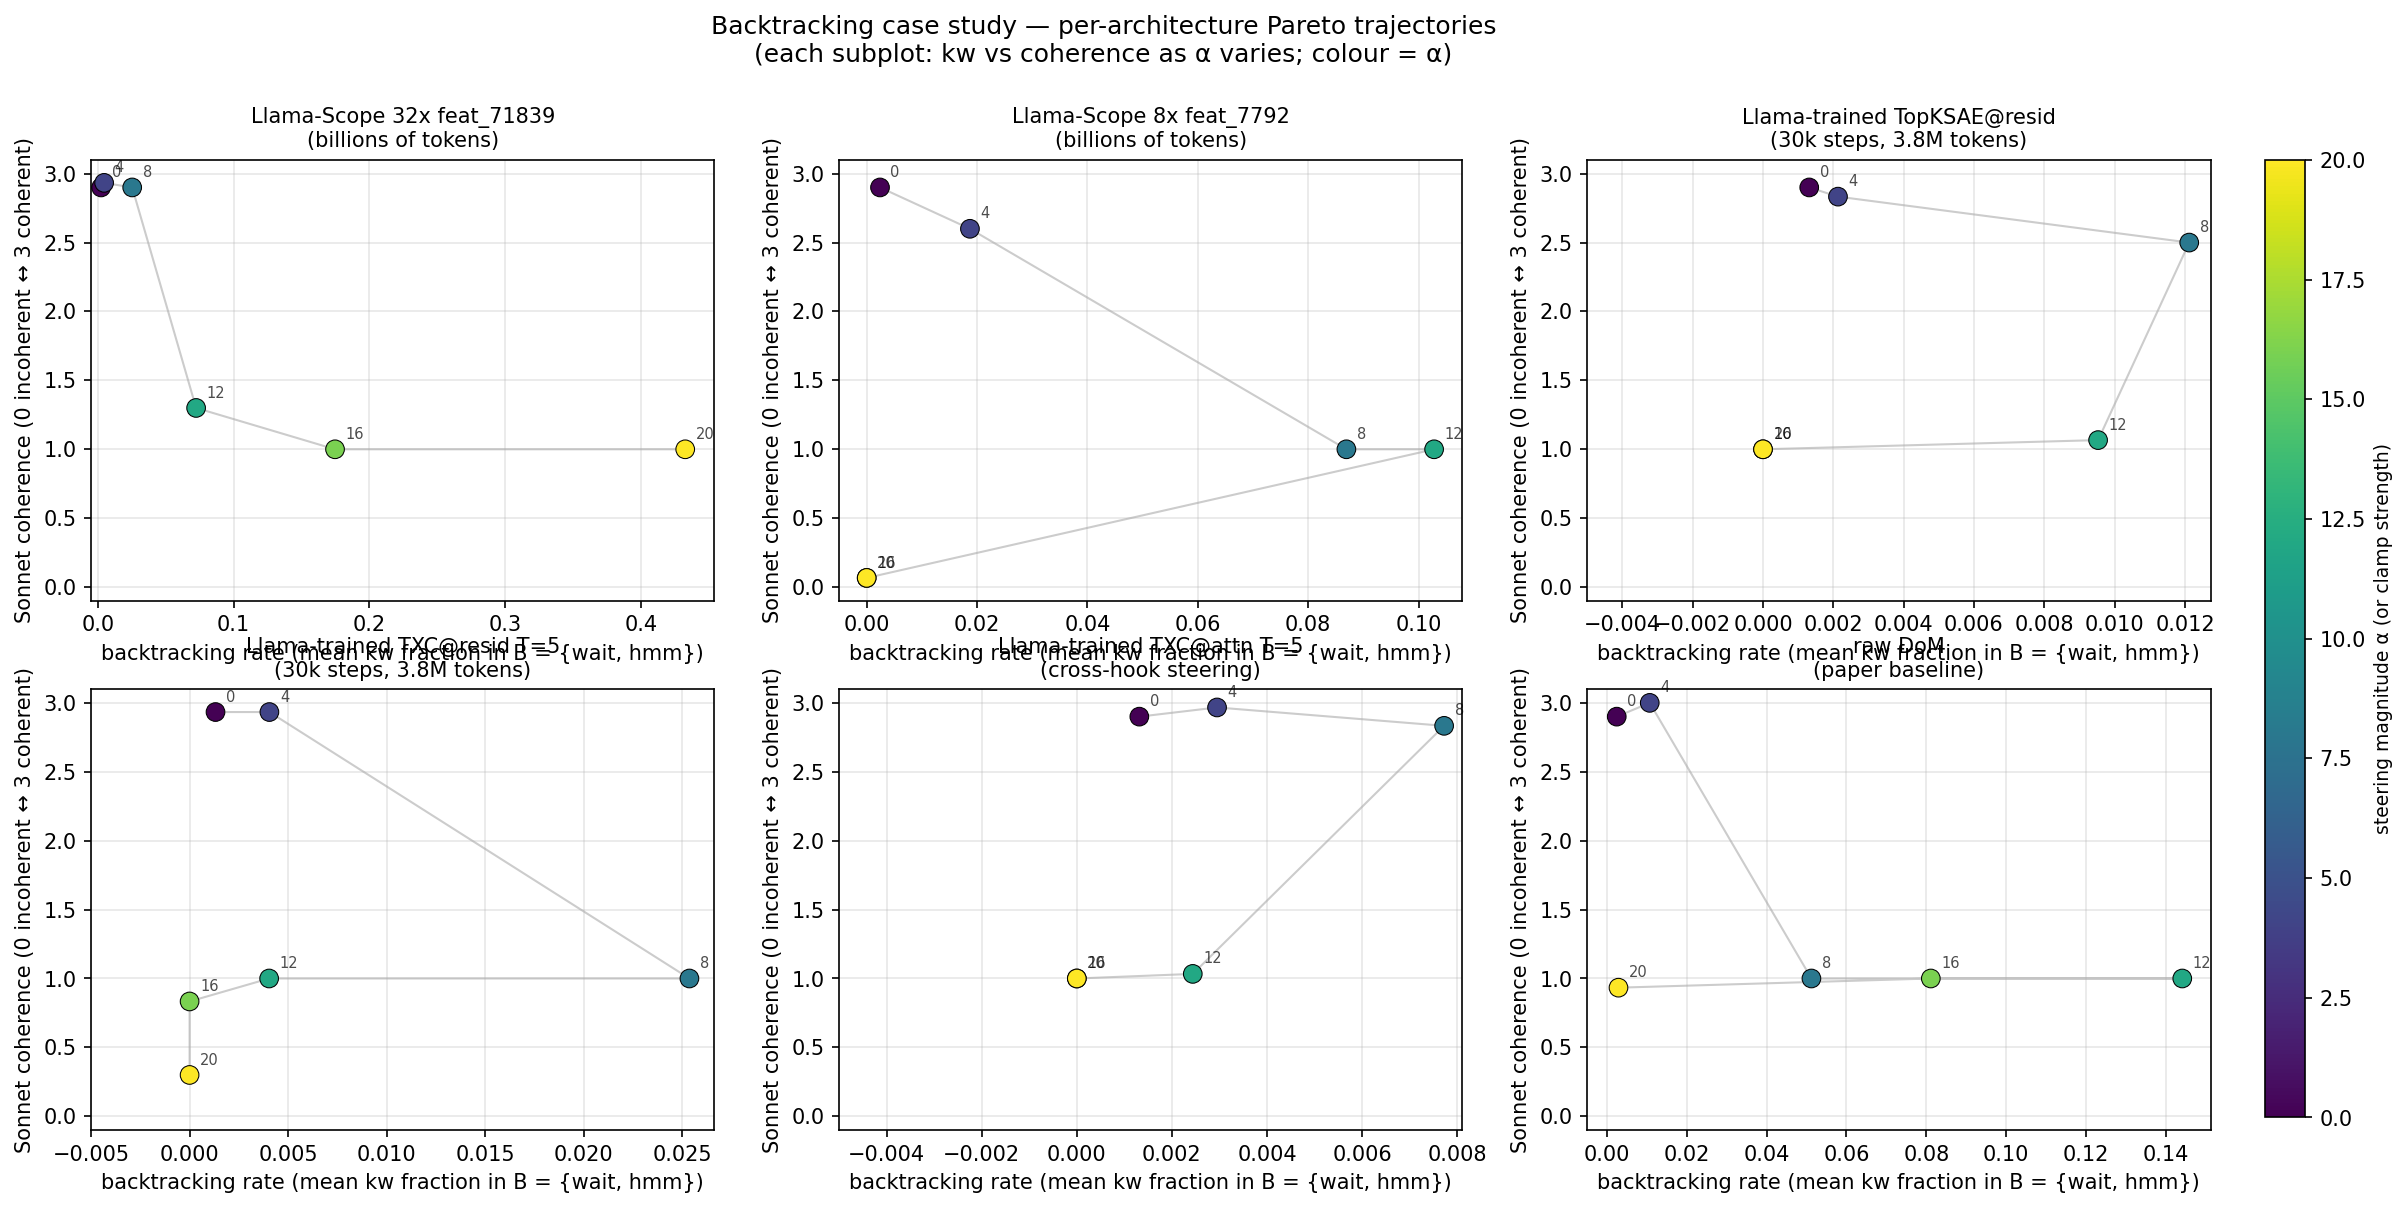
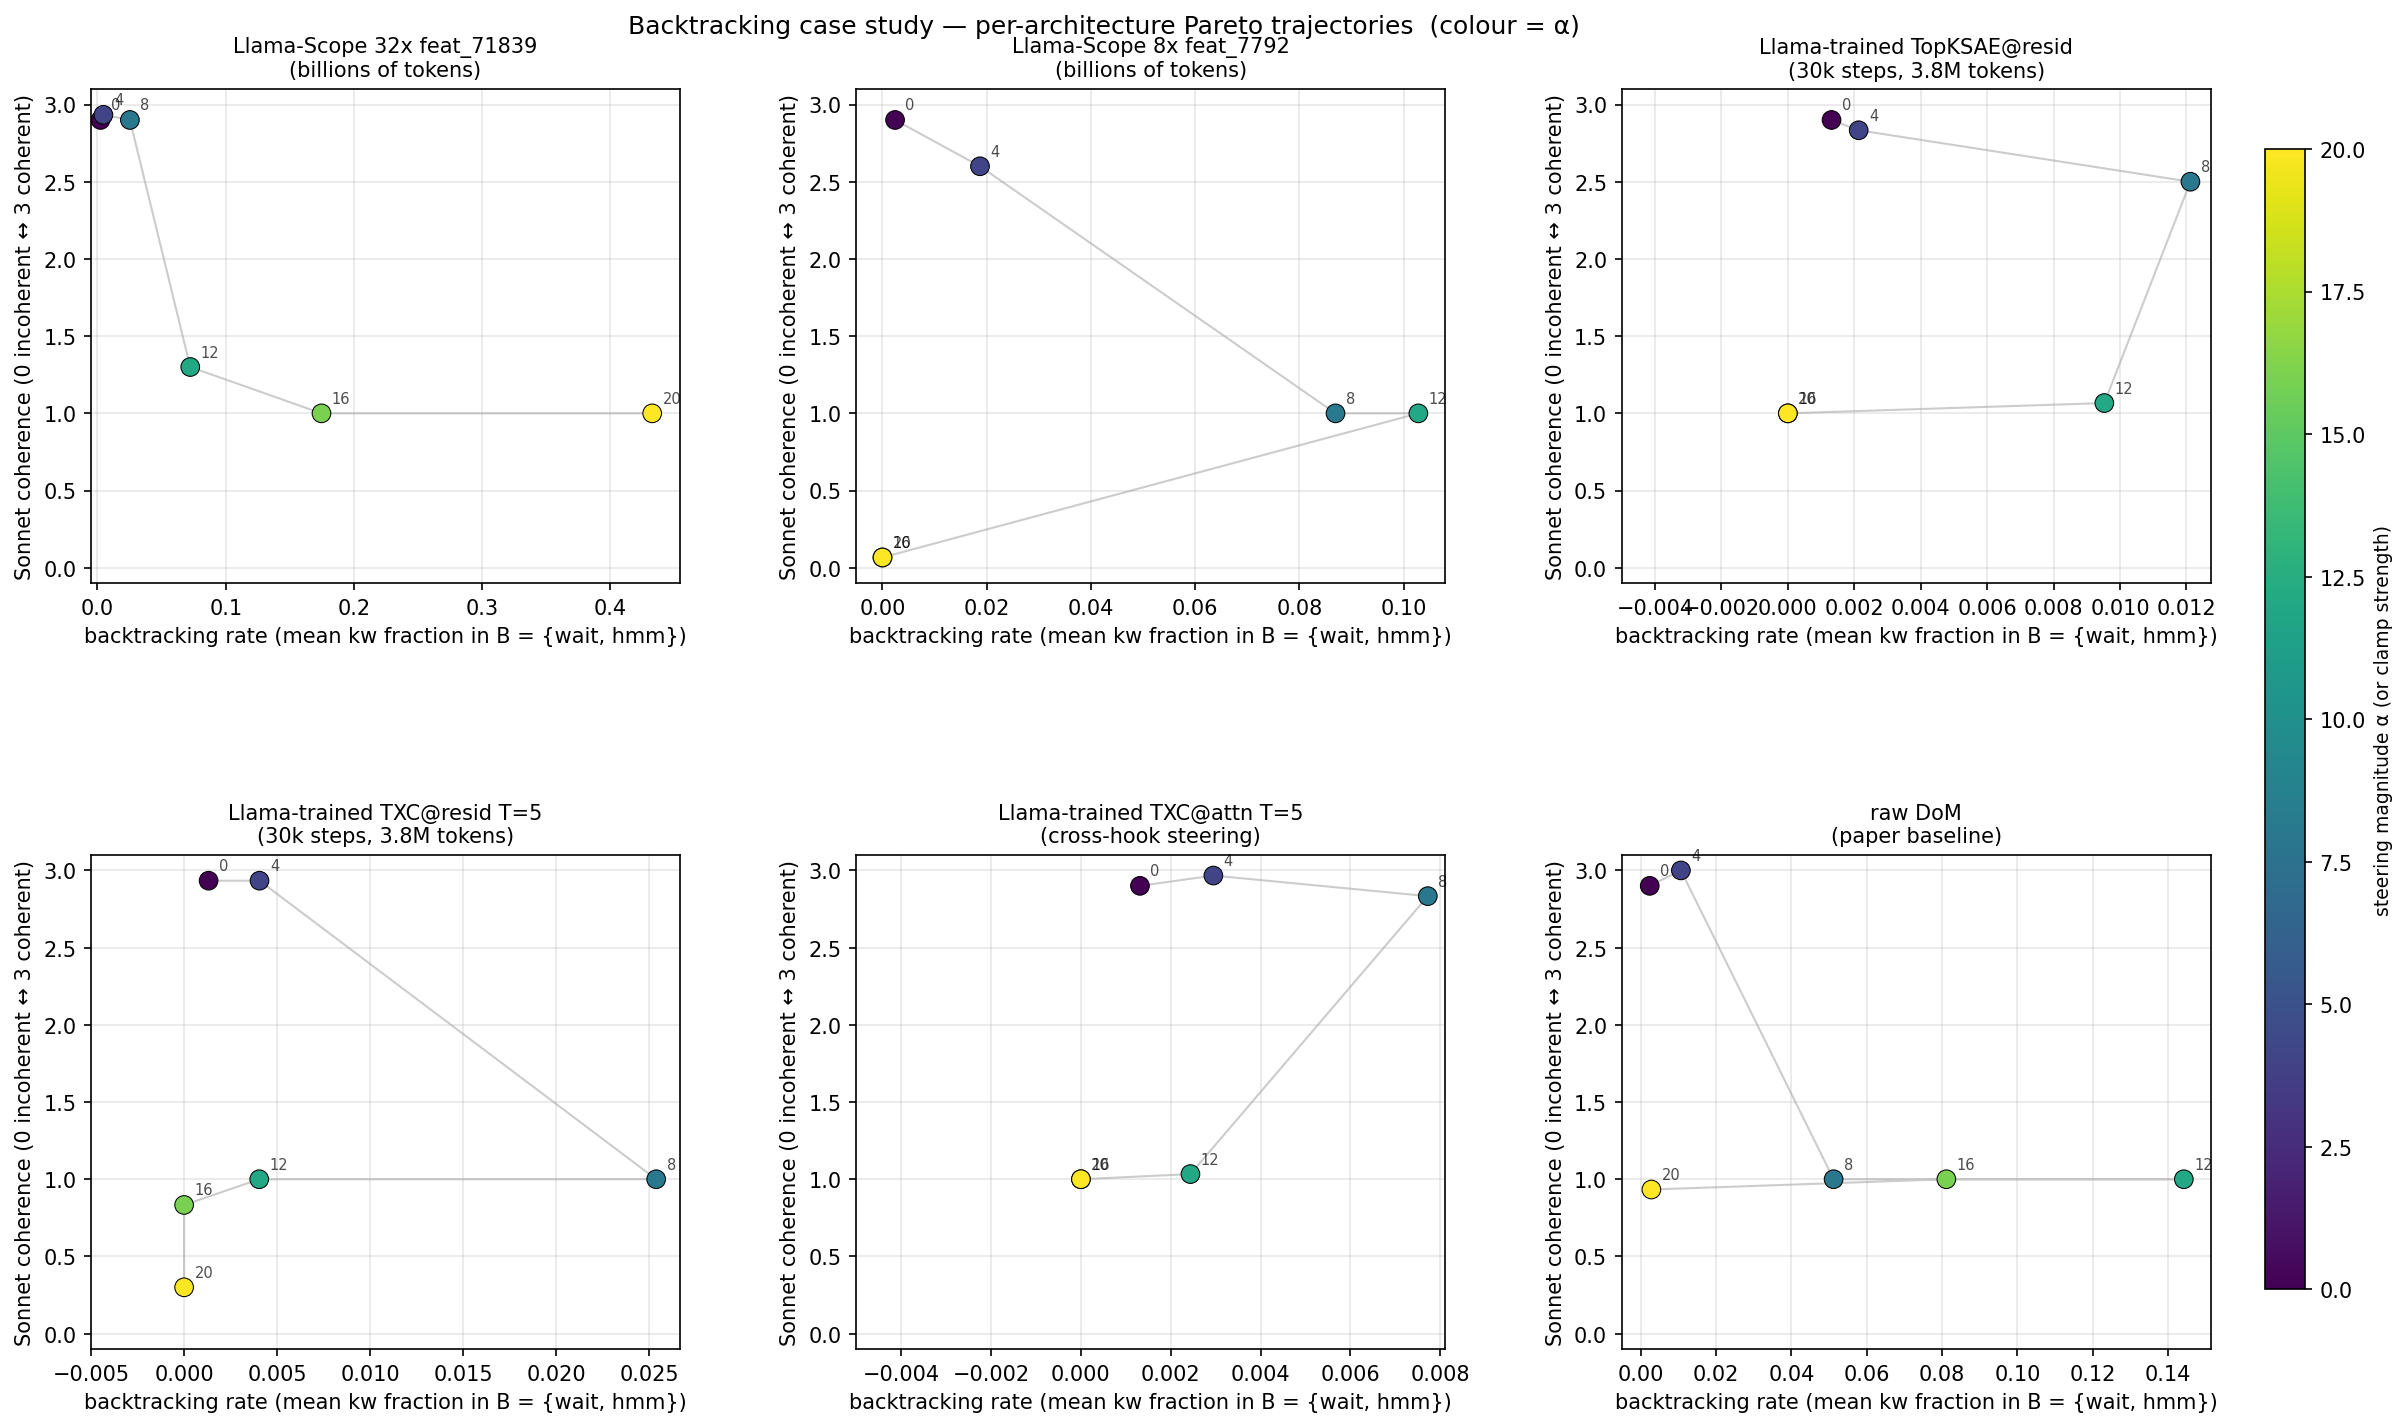
plot_pareto_per_arch: bump top margin so suptitle doesn't overlap row-1 titles

diff --git a/experiments/phase7_unification/case_studies/backtracking/plot_pareto_per_arch.py b/experiments/phase7_unification/case_studies/backtracking/plot_pareto_per_arch.py
@@ -148,7 +148,7 @@ def main() -> None:
     # eating into the per-axes padding.
     sm = ScalarMappable(cmap=cmap, norm=norm)
     sm.set_array([])
-    fig.subplots_adjust(right=0.91, hspace=0.55, wspace=0.30, top=0.92, bottom=0.08)
+    fig.subplots_adjust(right=0.91, hspace=0.55, wspace=0.30, top=0.90, bottom=0.08)
     cbar_ax = fig.add_axes([0.93, 0.12, 0.015, 0.76])
     cbar = fig.colorbar(sm, cax=cbar_ax)
     cbar.set_label("steering magnitude α (or clamp strength)", fontsize=9)
@@ -157,6 +157,8 @@ def main() -> None:
         "Backtracking case study — per-architecture Pareto trajectories  (colour = α)",
         fontsize=12, y=0.97,
     )
+    # Don't call tight_layout — it would override the careful subplots_adjust
+    # we set up. (The default mpl behaviour collapses our hspace.)
 
     out_path = Path(args.out) if args.out else RESULTS_DIR / "plots_summary" / "pareto_per_arch.png"
     out_path.parent.mkdir(parents=True, exist_ok=True)
